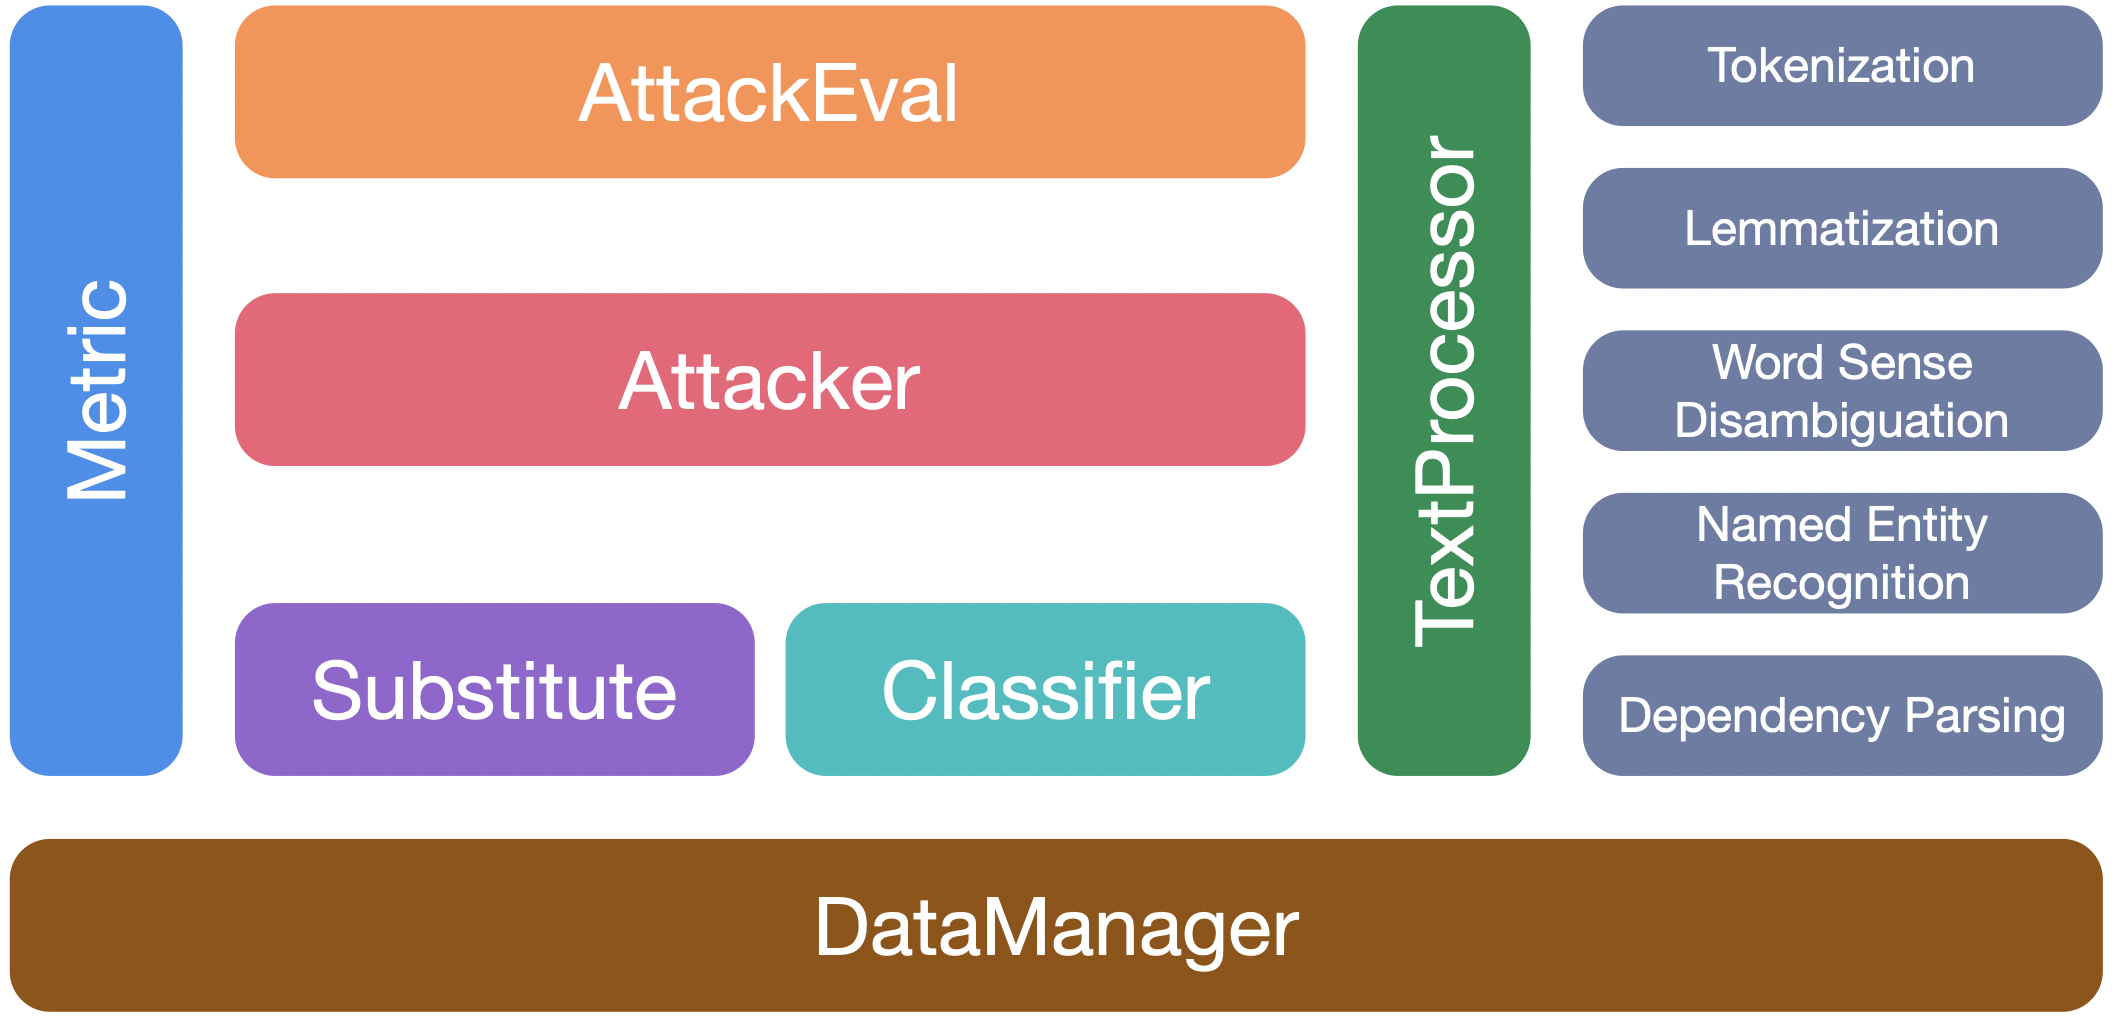
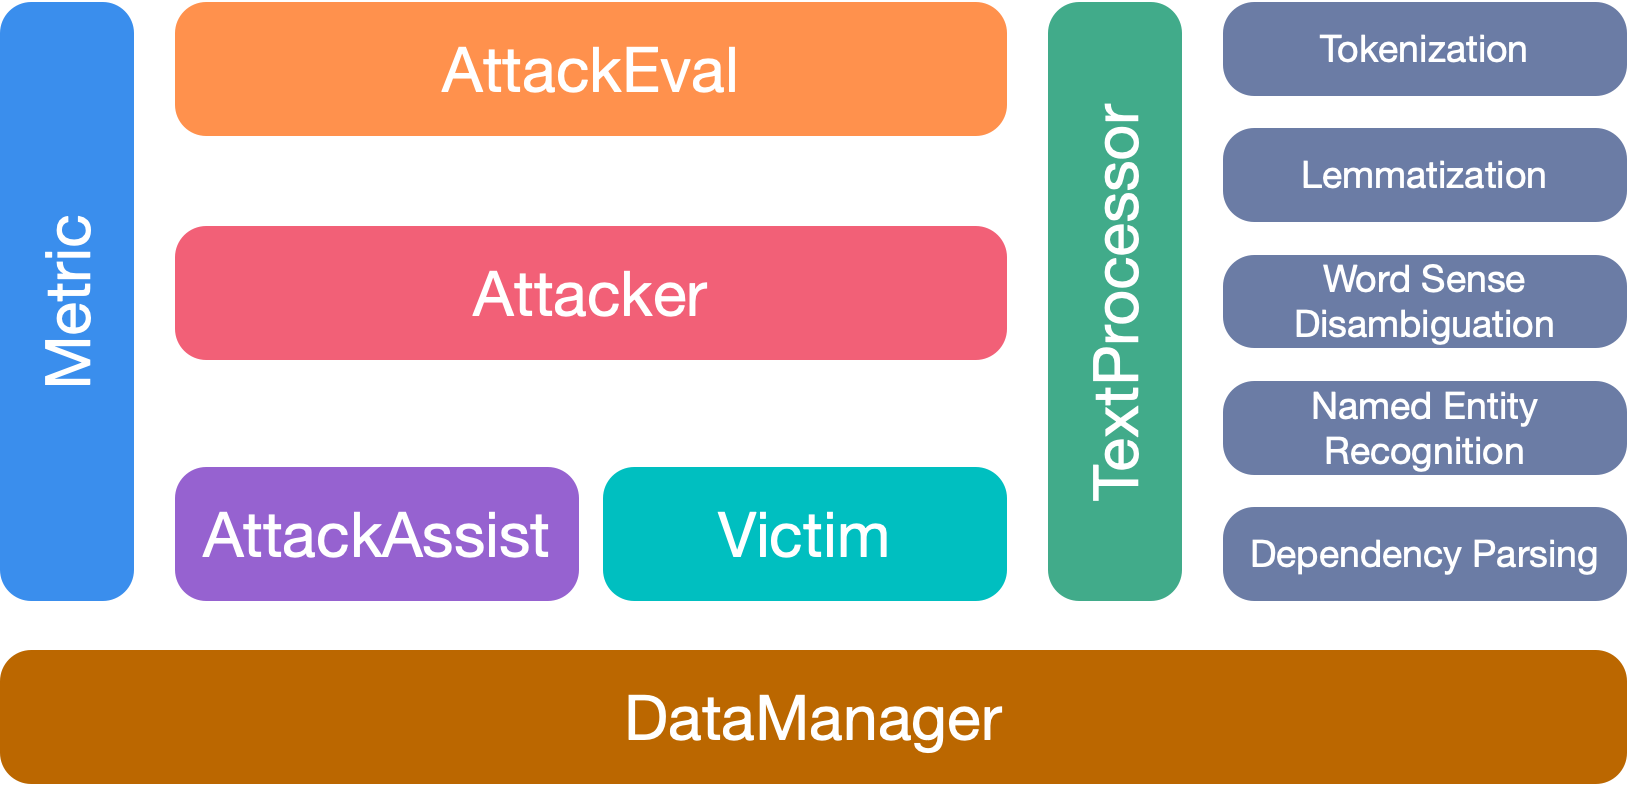
Update readme

diff --git a/README.md b/README.md
@@ -7,7 +7,13 @@
     <img src="https://readthedocs.org/projects/openattack/badge/?version=latest" alt="ReadTheDoc Status">
   </a>
   <a  href="https://pypi.org/project/OpenAttack/"  target="_blank">
-    <img src="https://img.shields.io/pypi/v/OpenAttack?label=OpenAttack" alt="PyPI version">
+    <img src="https://img.shields.io/pypi/v/OpenAttack?label=pypi" alt="PyPI version">
+  </a>
+  <a  href="https://github.com/thunlp/OpenAttack/releases"  target="_blank">
+    <img src="https://img.shields.io/github/v/release/thunlp/OpenAttack" alt="GitHub release (latest by date)">  
+  </a>
+  <a target="_blank">
+    <img alt="GitHub" src="https://img.shields.io/github/license/thunlp/OpenAttack">
   </a>
    <a target="_blank">
     <img src="https://img.shields.io/badge/PRs-Welcome-red" alt="PRs are Welcome">
@@ -21,28 +27,35 @@ OpenAttack is an open-source Python-based textual adversarial attack toolkit, wh
 
 ## Features & Uses
 
-OpenAttack has following features:
+#### OpenAttack has the following features:
 
-1. **High usability.** OpenAttack provides easy-to-use APIs that can support the whole process of textual adversarial attacks;
-2. **Full coverage of attack model types**. OpenAttack supports sentence-/word-/character-level perturbations and gradient-/score-/decision-based/blind attack models;
-3. **Great flexibility and extensibility**. You can easily attack a customized victim model or develop and evaluate a customized attack model;
-4. **Comprehensive Evaluation**. OpenAttack can thoroughly evaluate an attack model from attack effectiveness, adversarial example quality and attack efficiency.
+⭐ **Support for all attack types**. OpenAttack supports all types of attacks including sentence-/word-/character-level perturbations and gradient-/score-/decision-based/blind attack models;
+
+⭐ **Multilinguality**. OpenAttack supports English and Chinese now. Its extensible design enables quick support for more languages;
+
+⭐ **Parallel processing**. OpenAttack provides support for multi-process running of attack models to improve attack efficiency;
+
+⭐ **Compatibility with 🤗 Hugging Face**. OpenAttack is fully integrated with 🤗 [Transformers](https://github.com/huggingface/transformers) and [Datasets](https://github.com/huggingface/datasets) libraries;
+
+⭐ **Great extensibility**. You can easily attack a customized <u>victim model</u> on any customized <u>dataset</u> or develop and evaluate a customized <u>attack model</u>.
 
 
 
-OpenAttack has a wide range of uses, including:
+#### OpenAttack has a wide range of uses, including:
 
-1. Providing various handy baselines for attack models; 
-2. Comprehensively evaluating attack models using its thorough evaluation metrics; 
-3. Assisting in quick development of new attack models with the help of its common attack components; 
-4. Evaluating the robustness of a machine learning model against various adversarial attacks; 
-5. Conducting adversarial training to improve robustness of a machine learning model by enriching the training data with generated adversarial examples.
+✅ Providing various handy **baselines** for attack models; 
+
+✅ Comprehensively **evaluating** attack models using its thorough evaluation metrics; 
+
+✅ Assisting in quick development of **new attack models** with the help of its common attack components; 
+
+✅ Evaluating the **robustness** of a machine learning model against various adversarial attacks; 
+
+✅ Conducting **adversarial training** to improve robustness of a machine learning model by enriching the training data with generated adversarial examples.
 
 ## Installation
 
-You can either use `pip` or clone this repo to install OpenAttack.
-
-#### 1. Using pip (recommended)
+#### 1. Using `pip` (recommended)
 
 ```bash
 pip install OpenAttack
@@ -56,8 +69,6 @@ cd OpenAttack
 python setup.py install
 ```
 
-
-
 After installation, you can try running `demo.py` to check if OpenAttack works well:
 
 ```
@@ -67,7 +78,7 @@ python demo.py
 ![demo](./docs/source/images/demo.gif)
 ## Usage Examples
 
-#### Basic: Use Built-in Attacks
+#### Use Built-in Attacks
 
 OpenAttack builds in some commonly used text classification models such as LSTM and BERT as well as datasets such as [SST](https://nlp.stanford.edu/sentiment/treebank.html) for sentiment analysis and [SNLI](https://nlp.stanford.edu/projects/snli/) for natural language inference. You can effortlessly conduct adversarial attacks against the built-in victim models on the datasets.
 
@@ -87,7 +98,8 @@ attack_eval = oa.attack_evals.DefaultAttackEval(attacker, victim)
 attack_eval.eval(dataset, visualize=True)
 ```
 
-#### Advanced: Attack a Customized Victim Model
+<details>
+<summary><strong>Customized Victim Model</strong></summary>
 
 The following code snippet shows how to use the genetic algorithm-based attack model to attack a customized sentiment analysis model (a statistical model built in NLTK) on SST.
 
@@ -108,6 +120,7 @@ class MyClassifier(oa.Classifier):
             prob = rs["pos"] / (rs["neg"] + rs["pos"])
             rt.append(np.array([1 - prob, prob]))
         return np.array(rt)
+
 # choose the costomized classifier as the victim model
 victim = MyClassifier()
 # choose an evaluation dataset 
@@ -119,24 +132,43 @@ attack_eval = oa.attack_evals.DefaultAttackEval(attacker, victim)
 # launch attacks and print attack results 
 attack_eval.eval(dataset, visualize=True)
 ```
+</details>
 
-#### Advanced: Design a Customized Attack Model
+
+<details>
+<summary><strong>Customized Dataset</strong></summary>
+Test
+</details>
+
+<details>
+<summary><strong>Chinese Attack</strong></summary>
+Test
+</details>
+
+<details>
+<summary><strong>Customized Attack Model</strong></summary>
 
 OpenAttack incorporates many handy components which can be easily assembled into new attack model. 
 
 [Here](./examples/custom_attacker.py) gives an example of how to design a simple attack model which shuffles the tokens in the original sentence.
+</details>
 
-#### Advanced: Adversarial Training
+<details>
+<summary><strong>Adversarial Training</strong></summary>
 
 OpenAttack can easily generate adversarial examples by attacking instances in the training set, which can be added to original training data set to retrain a more robust victim model, i.e., adversarial training. 
 
 [Here](./examples/adversarial_training.py)  gives an example of how to conduct adversarial training with OpenAttack.
+</details>
 
-#### Advanced: Design a Customized Evaluation Metric
+<details>
+<summary><strong>More Examples</strong></summary>
 
-OpenAttack supports designing a customized adversarial attack evaluation metric.
+- Customized Evaluation Metric. OpenAttack supports designing a customized adversarial attack evaluation metric. [Here](./examples/custom_eval.py) gives an example of how to add BLEU score as a customized evaluation metric to evaluate adversarial attacks.
 
-[Here](./examples/custom_eval.py)  gives an example of how to add BLEU score as a customized evaluation metric to evaluate adversarial attacks.
+- Attack Sentence Pair Classification Models
+</details>
+
 
 ## Attack Models
 
@@ -146,7 +178,7 @@ According to the accessibility to the victim model, textual adversarial attack m
 
 > [TAADPapers](https://github.com/thunlp/TAADpapers) is a paper list which summarizes almost all the papers concerning textual adversarial attack and defense. You can have a look at this list to find more attack models.
 
-Currently OpenAttack includes 13 typical attack models against text classification models that cover **all** attack types. 
+Currently OpenAttack includes 15 typical attack models against text classification models that cover **all** attack types. 
 
 Here is the list of currently involved attack models.
 
@@ -155,32 +187,34 @@ Here is the list of currently involved attack models.
   - (SCPN) **Adversarial Example Generation with Syntactically Controlled Paraphrase Networks**. *Mohit Iyyer, John Wieting, Kevin Gimpel, Luke Zettlemoyer*. NAACL-HLT 2018. `blind` [[pdf](https://www.aclweb.org/anthology/N18-1170)] [[code&data](https://github.com/miyyer/scpn)]
   - (GAN) **Generating Natural Adversarial Examples**. *Zhengli Zhao, Dheeru Dua, Sameer Singh*. ICLR 2018. `decision` [[pdf](https://arxiv.org/pdf/1710.11342.pdf)] [[code](https://github.com/zhengliz/natural-adversary)]
 - Word-level
-  - (SememePSO) **Word-level Textual Adversarial Attacking as Combinatorial Optimization**. *Yuan Zang, Fanchao Qi, Chenghao Yang, Zhiyuan Liu, Meng Zhang, Qun Liu and Maosong Sun*. ACL 2020. `score` [[pdf](https://www.aclweb.org/anthology/2020.acl-main.540.pdf)] [[code](https://github.com/thunlp/SememePSO-Attack)]
   - (TextFooler) **Is BERT Really Robust? A Strong Baseline for Natural Language Attack on Text Classification and Entailment**. *Di Jin, Zhijing Jin, Joey Tianyi Zhou, Peter Szolovits*. AAAI-20. `score` [[pdf](https://arxiv.org/pdf/1907.11932v4)] [[code](https://github.com/wqj111186/TextFooler)]
   - (PWWS) **Generating Natural Language Adversarial Examples through Probability Weighted Word Saliency**. *Shuhuai Ren, Yihe Deng, Kun He, Wanxiang Che*. ACL 2019. `score` [[pdf](https://www.aclweb.org/anthology/P19-1103.pdf)] [[code](https://github.com/JHL-HUST/PWWS/)]
   - (Genetic) **Generating Natural Language Adversarial Examples**. *Moustafa Alzantot, Yash Sharma, Ahmed Elgohary, Bo-Jhang Ho, Mani Srivastava, Kai-Wei Chang*. EMNLP 2018. `score` [[pdf](https://www.aclweb.org/anthology/D18-1316)] [[code](https://github.com/nesl/nlp_adversarial_examples)]
+  - (SememePSO) **Word-level Textual Adversarial Attacking as Combinatorial Optimization**. *Yuan Zang, Fanchao Qi, Chenghao Yang, Zhiyuan Liu, Meng Zhang, Qun Liu and Maosong Sun*. ACL 2020. `score` [[pdf](https://www.aclweb.org/anthology/2020.acl-main.540.pdf)] [[code](https://github.com/thunlp/SememePSO-Attack)]
+  - (BERT-ATTACK) **BERT-ATTACK: Adversarial Attack Against BERT Using BERT**. *Linyang Li, Ruotian Ma, Qipeng Guo, Xiangyang Xue, Xipeng Qiu*. EMNLP 2020. `score` [[pdf](https://www.aclweb.org/anthology/2020.emnlp-main.500.pdf)] [[code](https://github.com/LinyangLee/BERT-Attack)]
+  - (BAE) **BAE: BERT-based Adversarial Examples for Text Classification**. *Siddhant Garg, Goutham Ramakrishnan. EMNLP 2020*. `score` [[pdf](https://www.aclweb.org/anthology/2020.emnlp-main.498.pdf)] [[code](https://github.com/QData/TextAttack/blob/master/textattack/attack_recipes/bae_garg_2019.py)]
   - (FD) **Crafting Adversarial Input Sequences For Recurrent Neural Networks**. *Nicolas Papernot, Patrick McDaniel, Ananthram Swami, Richard Harang*. MILCOM 2016. `gradient` [[pdf](https://arxiv.org/pdf/1604.08275.pdf)]
 - Word/Char-level
-  - (UAT) **Universal Adversarial Triggers for Attacking and Analyzing NLP.** *Eric Wallace, Shi Feng, Nikhil Kandpal, Matt Gardner, Sameer Singh*. EMNLP-IJCNLP 2019. `gradient` [[pdf](https://arxiv.org/pdf/1908.07125.pdf)] [[code](https://github.com/Eric-Wallace/universal-triggers)] [[website](http://www.ericswallace.com/triggers)]
   - (TextBugger) **TEXTBUGGER: Generating Adversarial Text Against Real-world Applications**. *Jinfeng Li, Shouling Ji, Tianyu Du, Bo Li, Ting Wang*. NDSS 2019. `gradient` `score` [[pdf](https://arxiv.org/pdf/1812.05271.pdf)]
+  - (UAT) **Universal Adversarial Triggers for Attacking and Analyzing NLP.** *Eric Wallace, Shi Feng, Nikhil Kandpal, Matt Gardner, Sameer Singh*. EMNLP-IJCNLP 2019. `gradient` [[pdf](https://arxiv.org/pdf/1908.07125.pdf)] [[code](https://github.com/Eric-Wallace/universal-triggers)] [[website](http://www.ericswallace.com/triggers)]
   - (HotFlip) **HotFlip: White-Box Adversarial Examples for Text Classification**. *Javid Ebrahimi, Anyi Rao, Daniel Lowd, Dejing Dou*. ACL 2018. `gradient` [[pdf](https://www.aclweb.org/anthology/P18-2006)] [[code](https://github.com/AnyiRao/WordAdver)]
 - Char-level
   - (VIPER) **Text Processing Like Humans Do: Visually Attacking and Shielding NLP Systems**. *Steffen Eger, Gözde Gül ¸Sahin, Andreas Rücklé, Ji-Ung Lee, Claudia Schulz, Mohsen Mesgar, Krishnkant Swarnkar, Edwin Simpson, Iryna Gurevych*. NAACL-HLT 2019. `score` [[pdf](https://www.aclweb.org/anthology/N19-1165)] [[code&data](https://github.com/UKPLab/naacl2019-like-humans-visual-attacks)]
   - (DeepWordBug) **Black-box Generation of Adversarial Text Sequences to Evade Deep Learning Classifiers**. *Ji Gao, Jack Lanchantin, Mary Lou Soffa, Yanjun Qi*. IEEE SPW 2018. `score` [[pdf](https://ieeexplore.ieee.org/document/8424632)] [[code](https://github.com/QData/deepWordBug)]
 
-
-
-Following table illustrates the comparison of the attack models.
+The following table illustrates the comparison of the attack models.
 
 |    Model    |  Accessibility  | Perturbation | Main Idea                                           |
 | :---------: | :-------------: | :----------: | :-------------------------------------------------- |
 |     SEA     |    Decision     |   Sentence   | Rule-based paraphrasing                             |
 |    SCPN     |      Blind      |   Sentence   | Paraphrasing                                        |
 |     GAN     |    Decision     |   Sentence   | Text generation by encoder-decoder                  |
-|  SememePSO  |      Score      |     Word     | Particle Swarm Optimization-based word substitution |
 | TextFooler  |      Score      |     Word     | Greedy word substitution                            |
 |    PWWS     |      Score      |     Word     | Greedy word substitution                            |
 |   Genetic   |      Score      |     Word     | Genetic algorithm-based word substitution           |
+|  SememePSO  |      Score      |     Word     | Particle Swarm Optimization-based word substitution |
+|  BERT-ATTACK  |      Score      |     Word     | Greedy contextualized word substitution |
+|  BAE  |      Score      |     Word     | Greedy contextualized word substitution and insertion |
 |     FD      |    Gradient     |     Word     | Gradient-based word substitution                    |
 | TextBugger  | Gradient, Score |  Word+Char   | Greedy word substitution and character manipulation |
 |     UAT     |    Gradient     |  Word, Char  | Gradient-based word or character manipulation       |
@@ -194,12 +228,35 @@ Considering the significant distinctions among different attack models, we leave
 
 OpenAttack has 7 main modules: 
 
-<img src="./docs/source/images/toolkit_framework.png" alt="toolkit_framework" style="zoom:30%;" />
+<img src="./docs/source/images/toolkit_framework.png" alt="toolkit_framework" style="zoom:40%;" />
 
-* **TextProcessor**: processing the original text sequence so as to assist attack models in generating adversarial examples.
-* **Classifier**: wrapping victim classification models
-* **Attacker**: involving various attack models
-* **Substitute**: packing different word/character substitution methods which are widely used in word- and character-level attack models.
-* **Metric**: providing several adversarial example quality metrics which can serve as either the constraints on the adversarial examples during attacking or evaluation metrics for evaluating adversarial attacks.
-* **AttackEval**: evaluating textual adversarial attacks from attack effectiveness, adversarial example quality and attack efficiency.
-* **DataManager**: managing all the data as well as saved models that are used in other modules
+* **TextProcessor**: processing the original text sequence to assist attack models in generating adversarial examples;
+* **Victim**: wrapping victim models;
+* **Attacker**: comprising various attack models;
+* **AttackAssist**: packing different word/character substitution methods that are used in word-/character-level attack models and some other components used in sentence-level attack models like the paraphrasing model;
+* **Metric**: providing several adversarial example quality metrics that can serve as either the constraints on the adversarial examples during attacking or evaluation metrics for evaluating adversarial attacks;
+* **AttackEval**: evaluating textual adversarial attacks from attack effectiveness, adversarial example quality and attack efficiency;
+* **DataManager**: managing all data and saved models that are used in other modules.
+
+## Citation
+
+Please cite our [paper](https://aclanthology.org/2021.acl-demo.43.pdf) if you use this toolkit:
+
+```
+@inproceedings{zeng2020openattack,
+  title={{Openattack: An open-source textual adversarial attack toolkit}},
+  author={Zeng, Guoyang and Qi, Fanchao and Zhou, Qianrui and Zhang, Tingji and Hou, Bairu and Zang, Yuan and Liu, Zhiyuan and Sun, Maosong},
+  booktitle={Proceedings of the 59th Annual Meeting of the Association for Computational Linguistics and the 11th International Joint Conference on Natural Language Processing: System Demonstrations},
+  pages={363--371},
+  year={2021},
+  url={https://aclanthology.org/2021.acl-demo.43},
+  doi={10.18653/v1/2021.acl-demo.43}
+}
+```
+
+## Contributors
+We thank all the contributors to this project. And more contributions are very welcome.
+
+<a href="https://github.com/thunlp/OpenAttack/graphs/contributors">
+  <img src="https://contrib.rocks/image?repo=thunlp/OpenAttack"/></a>
+
